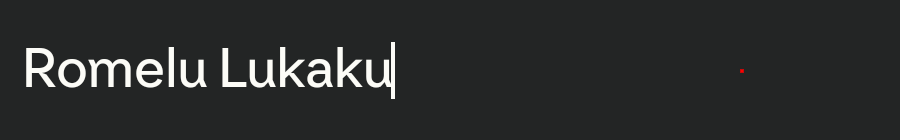
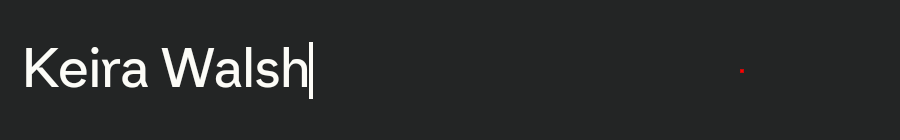
latest

Changed region(s): [[0.0311, 0.3143, 0.4667, 0.7143], [0.0933, 0.3429, 0.1244, 0.3714]]

diff --git a/scripts/game/Determinator.py b/scripts/game/Determinator.py
@@ -2,7 +2,6 @@
 from scripts.main_thread.utils.decorators import FunctionNameDecorator, name
 from scripts.DI.DI import di
 
-from scripts.main_thread.utils.Cremator import Cremator
 from scripts.game.Determinator2 import Determinator2
 
 pics = di.get('pics')
@@ -27,15 +26,14 @@ class Determinator(FunctionNameDecorator):
         determined_price = self.determine_best_price(player)  # plus minus kacka: die erste
         player.determined_buy_price = determined_price
         if determined_price:
-            optimized_price = determined_price * .95  # transaction fee
+            optimized_price = int(determined_price * .95)  # transaction fee
             self.enter_optimized_price(optimized_price)
-            # for i in range(2):  # guarantee no loss
-            self.decrement_search_price(i=2)  # click minus to decrement price
+            self.decrement_search_price(i=2)  # guarantee no loss
             best_optimized_price = self.sub_determinator.get_best_optimized_price()
         player.best_optimized_price = best_optimized_price
         sell_price = None
         if best_optimized_price:
-            sell_price = best_optimized_price * 1.05
+            sell_price = int(best_optimized_price * 1.05)
         else:
             self.mpysin.back()
         player.sell_price = sell_price
@@ -114,11 +112,13 @@ class Determinator(FunctionNameDecorator):
         self.click max search price
         enter optimized price
         """
+        self.mpysin.back()
         if not self.mpysin.checkpoint(**pics.transfers_market_checkpoint):
             return
         self.sub_determinator.scroll_down_inside_transfer_menu()
         self.mpysin.click(705, 2550)
         self.mpysin.typewrite(optimized_price)
+        self.mpysin.back()
 
     @name
     def decrement_search_price(self, i):

diff --git a/scripts/game/Determinator2.py b/scripts/game/Determinator2.py
@@ -28,12 +28,13 @@ class Determinator2(FunctionNameDecorator):
             self.mpysin.click(*reset_filter_btn)
             # print(reset_filter_btn)
         self.scroll_down_inside_transfer_menu()
-        reset_bid_price_btn = self.mpysin.wait_for(4, 1, **pics.reset_bid_price_btn)
-        if reset_bid_price_btn:
-            self.mpysin.click(*reset_bid_price_btn, dur=1)
-        reset_buy_price_btn = self.mpysin.wait_for(4, 1, **pics.reset_buy_price_btn)
-        if reset_buy_price_btn:
-            self.mpysin.click(*reset_buy_price_btn, dur=1)
+        expected_color = 252, 252, 247  # white
+        reset_bid_price_pixel = 1288, 1538
+        if self.mpysin.pixel_matches_color(reset_bid_price_pixel, expected_color, tolerance=25):
+            self.mpysin.click(*reset_bid_price_pixel)
+        reset_buy_price_pixel = 1287, 2144
+        if self.mpysin.pixel_matches_color(reset_buy_price_pixel, expected_color, tolerance=25):
+            self.mpysin.click(*reset_buy_price_pixel)
         self.scroll_up_inside_transfer_menu()
 
     @name
@@ -114,7 +115,7 @@ class Determinator2(FunctionNameDecorator):
 
     @name
     def search_player(self):
-        search_btn = self.mpysin.locate(**pics.search_btn)
+        search_btn = self.mpysin.wait_for(5, 1, **pics.search_btn)
         if search_btn:
             self.mpysin.click(*search_btn, 2)
 
@@ -123,7 +124,11 @@ class Determinator2(FunctionNameDecorator):
         if not self.mpysin.check_point(**pics.transfers_market_checkpoint):
             return
         self.mpysin.click(705, 2550)
-        return self.emu.copy_text()
+        txt = self.emu.copy_text()
+        if txt:
+            txt = txt.replace(',', '').replace('.', '')
+            txt = int(txt)
+        return txt
 
     @name
     def get_best_optimized_price(self):

diff --git a/scripts/game/Vendor.py b/scripts/game/Vendor.py
@@ -47,9 +47,10 @@ class Vendor(FunctionNameDecorator):
         if results == 'good_results':
             arrows = self.sub_vendor.locate_arrows()
             chosen_result = self.sub_vendor.process_arrows(arrows)
-            self.mpysin.click(*chosen_result)
-            self.sub_vendor.click_buy_now()
-            bought = self.sub_vendor.approve_purchase(player)
+            if chosen_result:
+                self.mpysin.click(*chosen_result)
+                self.sub_vendor.click_buy_now()
+                bought = self.sub_vendor.approve_purchase(player)
 
         return bought
 
@@ -67,9 +68,10 @@ class Vendor(FunctionNameDecorator):
             self.refresh_toggle = False
             self.cremator.increment(pics.bid_price_increment_btn)
             self.cremator.increment(pics.sell_price_min_increment_btn)
-            self.mpysin.click(*pics.search_btn)
         else:
             self.refresh_toggle = True
             self.cremator.decrement(pics.bid_price_decrement_btn)
             self.cremator.decrement(pics.sell_price_min_decrement_btn)
-            self.mpysin.click(*pics.search_btn)
+        search_btn = self.mpysin.locate(**pics.search_btn)
+        if search_btn:
+            self.mpysin.click(*search_btn)

diff --git a/scripts/game/Vendor2.py b/scripts/game/Vendor2.py
@@ -43,7 +43,7 @@ class Vendor2(FunctionNameDecorator):
     def navigate_to_transfer_market_menu(self):
         self.mpysin.back(dur=2)
         self.mpysin.back(dur=2)
-        self.mpysin.check_point(**pics.transfer_market_menu_checkpoint)
+        self.mpysin.check_point(**pics.transfers_menu_checkpoint)
 
     @name
     def locate_arrows(self):
@@ -59,6 +59,8 @@ class Vendor2(FunctionNameDecorator):
 
     @name
     def process_arrows(self, arrows):
+        arrow = None
+
         numbers = []
         for i, arrow in enumerate(arrows):
             coin = self.mpysin.locate(**pics.__getattribute__(f'coin_result_{i}'), screen=False)
@@ -66,10 +68,12 @@ class Vendor2(FunctionNameDecorator):
             region = self.coin_indicator.calculate_region_by_coin(start_point, coin)
             number = self.mpysin.read_numbers(region, screen=False)
             numbers.append(number)
-        smallest_number = min(numbers)
-        index = numbers.index(smallest_number)
+        if numbers:
+            smallest_number = min(numbers)
+            index = numbers.index(smallest_number)
+            arrow = arrows[index]
 
-        return arrows[index]
+        return arrow
 
     @name
     def click_buy_now(self):

diff --git a/scripts/main_thread/utils/ManuPysin.py b/scripts/main_thread/utils/ManuPysin.py
@@ -52,15 +52,20 @@ class ManuPysin(FunctionNameDecorator):
         r, g, b, a = rgba
         return r, g, b
 
-    def pixel_matches_color(self, x, y, color, tolerance=0):
-        current_rgb = self.pixel(x, y)
+
+    @name
+    def pixel_matches_color(self, pixel, color, tolerance=0):
+        match = False
+        current_rgb = self.pixel(*pixel)
         current_r, current_g, current_b = current_rgb
         expected_r, expected_g, expected_b = color
-        return (
+        match = (
                 abs(current_r - expected_r) <= tolerance and
                 abs(current_g - expected_g) <= tolerance and
                 abs(current_b - expected_b) <= tolerance
         )
+        self.mp.print(f'expected_color: {color}, result: {current_rgb}, with tolerance: {match}')
+        return match
 
     def locate(self, pic, con=.9, reg=None, verbose=True, screen=True, find=True, center=True):
         if verbose:

diff --git a/scripts/main_thread/utils/Cremator.py b/scripts/main_thread/utils/Cremator.py
@@ -1,5 +1,3 @@
-
-
 from scripts.main_thread.utils.decorators import FunctionNameDecorator, name
 from scripts.DI.DI import di
 
@@ -15,10 +13,14 @@ class Cremator(FunctionNameDecorator):
     @name
     def increment(self, btn):
         increment_btn = self.mpysin.locate(**btn)
+        if not increment_btn:
+            return
         self.mpysin.click(*increment_btn)
 
     @name
     def decrement(self, btn, i=1):
         decrement_btn = self.mpysin.locate(**btn)
+        if not decrement_btn:
+            return
         for _ in range(i):
             self.mpysin.click(*decrement_btn, dur=.05)

diff --git a/pixel.py b/pixel.py
@@ -1,0 +1,15 @@
+import os
+
+from PIL import Image
+
+path = rf'.\pics\pixel.png'
+os.system(rf'adb -s emulator-5554 exec-out screencap -p > {path}')
+
+pixel = 1288, 1538  # rgb: 101, 101, 99
+# pixel = 1287, 2144  # rgb: 252, 252, 247
+
+
+image = Image.open(path)
+rgba = image.getpixel(pixel)
+r, g, b, a = rgba
+print(f'pixel{pixel}-rgb: {r}, {g}, {b}')

diff --git a/scripts/utils/digits.py b/scripts/utils/digits.py
@@ -1,6 +1,10 @@
 from PIL import Image
 import pytesseract
 
+try:
+    pytesseract.pytesseract.tesseract_cmd = r'C:\Users\Sintax\AppData\Local\Programs\Tesseract-OCR\tesseract.exe'  # For Windows
+except Exception:
+    pass
 
 def recognize_digits(image_path):
     # Open the image
